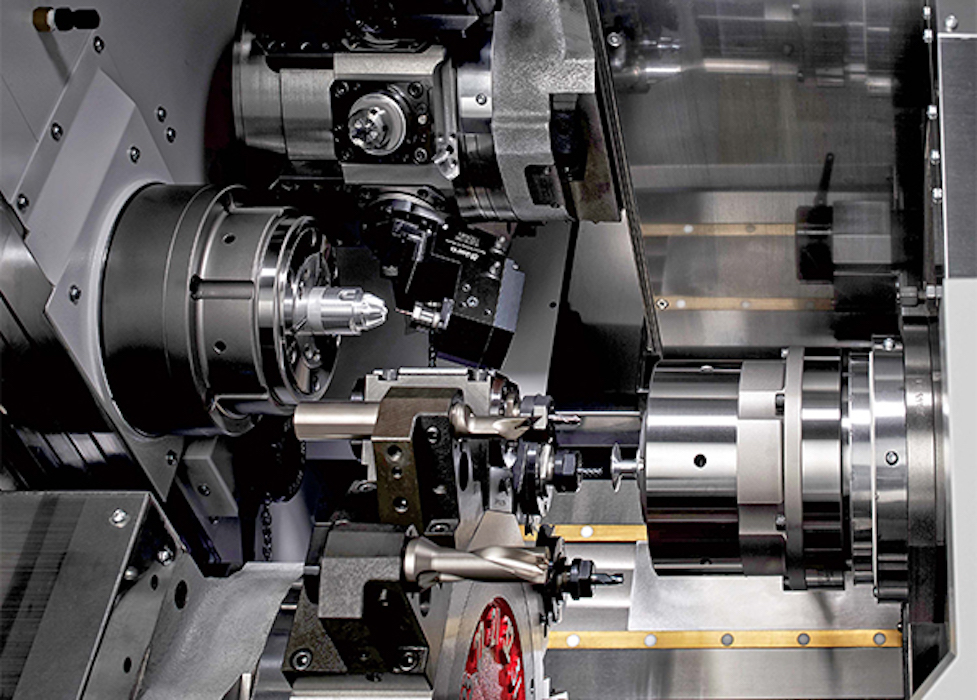
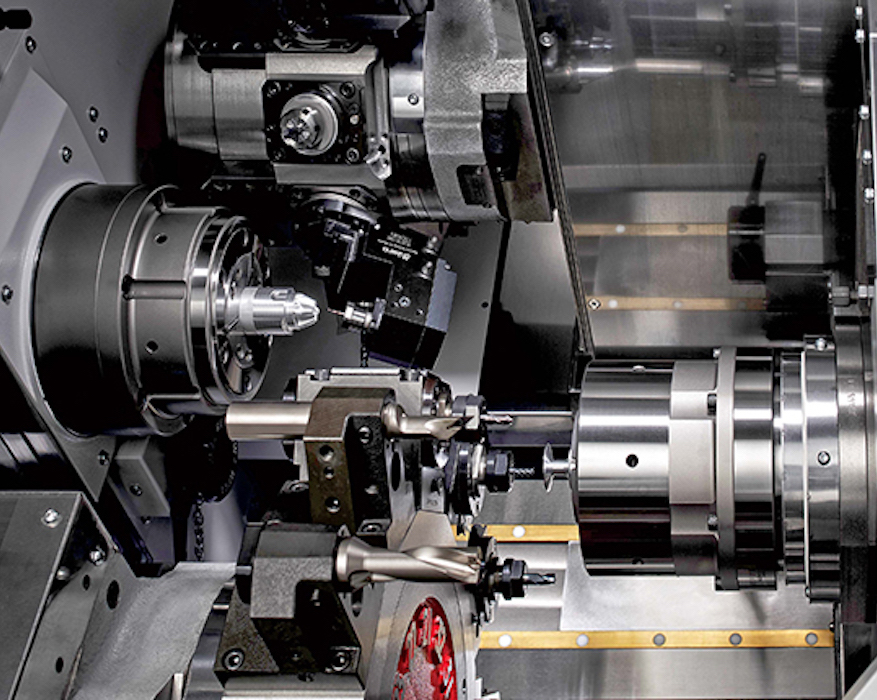
changed cnc cincom image

diff --git a/flutter_service_worker.js b/flutter_service_worker.js
@@ -5,9 +5,9 @@ const CACHE_NAME = 'flutter-app-cache';
 const RESOURCES = {
   "version.json": "917a11a91da7b29ac06fbf2385a6be6f",
 "favicon.ico": "81b0d6663451cefaaa554ed20c7b00d0",
-"index.html": "e060be4cdf6c764b8747f1e6bbb6f534",
-"/": "e060be4cdf6c764b8747f1e6bbb6f534",
-"styles.css": "31e47030e7a8f9e4ea4c41e3d62d5d2f",
+"index.html": "f609671a2b28696052c0234f9025ce1e",
+"/": "f609671a2b28696052c0234f9025ce1e",
+"styles.css": "3bcb2ce7b2f079b344ab1b0230e13321",
 "main.dart.js": "e6eb73c9b9fae1a6f2faa78b3876c830",
 "img/Neat-Tools-Banner-2.png": "326df15f80cd7f7057edd44a9828e0d7",
 "favicon.png": "feb10f3fdc84aa896de1a5834c0b243d",
@@ -19,7 +19,7 @@ const RESOURCES = {
 "assets/FontManifest.json": "dc3d03800ccca4601324923c0b1d6d57",
 "assets/packages/cupertino_icons/assets/CupertinoIcons.ttf": "6d342eb68f170c97609e9da345464e5e",
 "assets/fonts/MaterialIcons-Regular.otf": "4e6447691c9509f7acdbf8a931a85ca1",
-"assets/assets/images/cnc-cincom.jpg": "2a3048fb7c45080aa98581a6b784e26d",
+"assets/assets/images/cnc-cincom.jpg": "35aaef10c989e806330e7526a85c328d",
 "assets/assets/images/machine_logo_5.png": "474ab8bf9d74d512151a71ef880c321d",
 "assets/assets/images/machine_logo_25.png": "8c4b3199ad230803bbf08da3a6b78500",
 "assets/assets/images/machine_logo_19.png": "585cc0d1086acf1e7c124f26e825a6db",

diff --git a/index.html b/index.html
@@ -37,7 +37,7 @@
        application. For more information, see:
        https://developers.google.com/web/fundamentals/primers/service-workers -->
   <script>
-    var serviceWorkerVersion = '390472078';
+    var serviceWorkerVersion = '2219508630';
     var scriptLoaded = false;
     function loadMainDartJs() {
       if (scriptLoaded) {

diff --git a/styles.css b/styles.css
@@ -3,7 +3,7 @@
     position: absolute;
     top: 50%;
     left: 50%;
-    width: 50%;
+    width: 70%;
     margin-right: -50%;
     transform: translate(-50%, -50%)
 }
